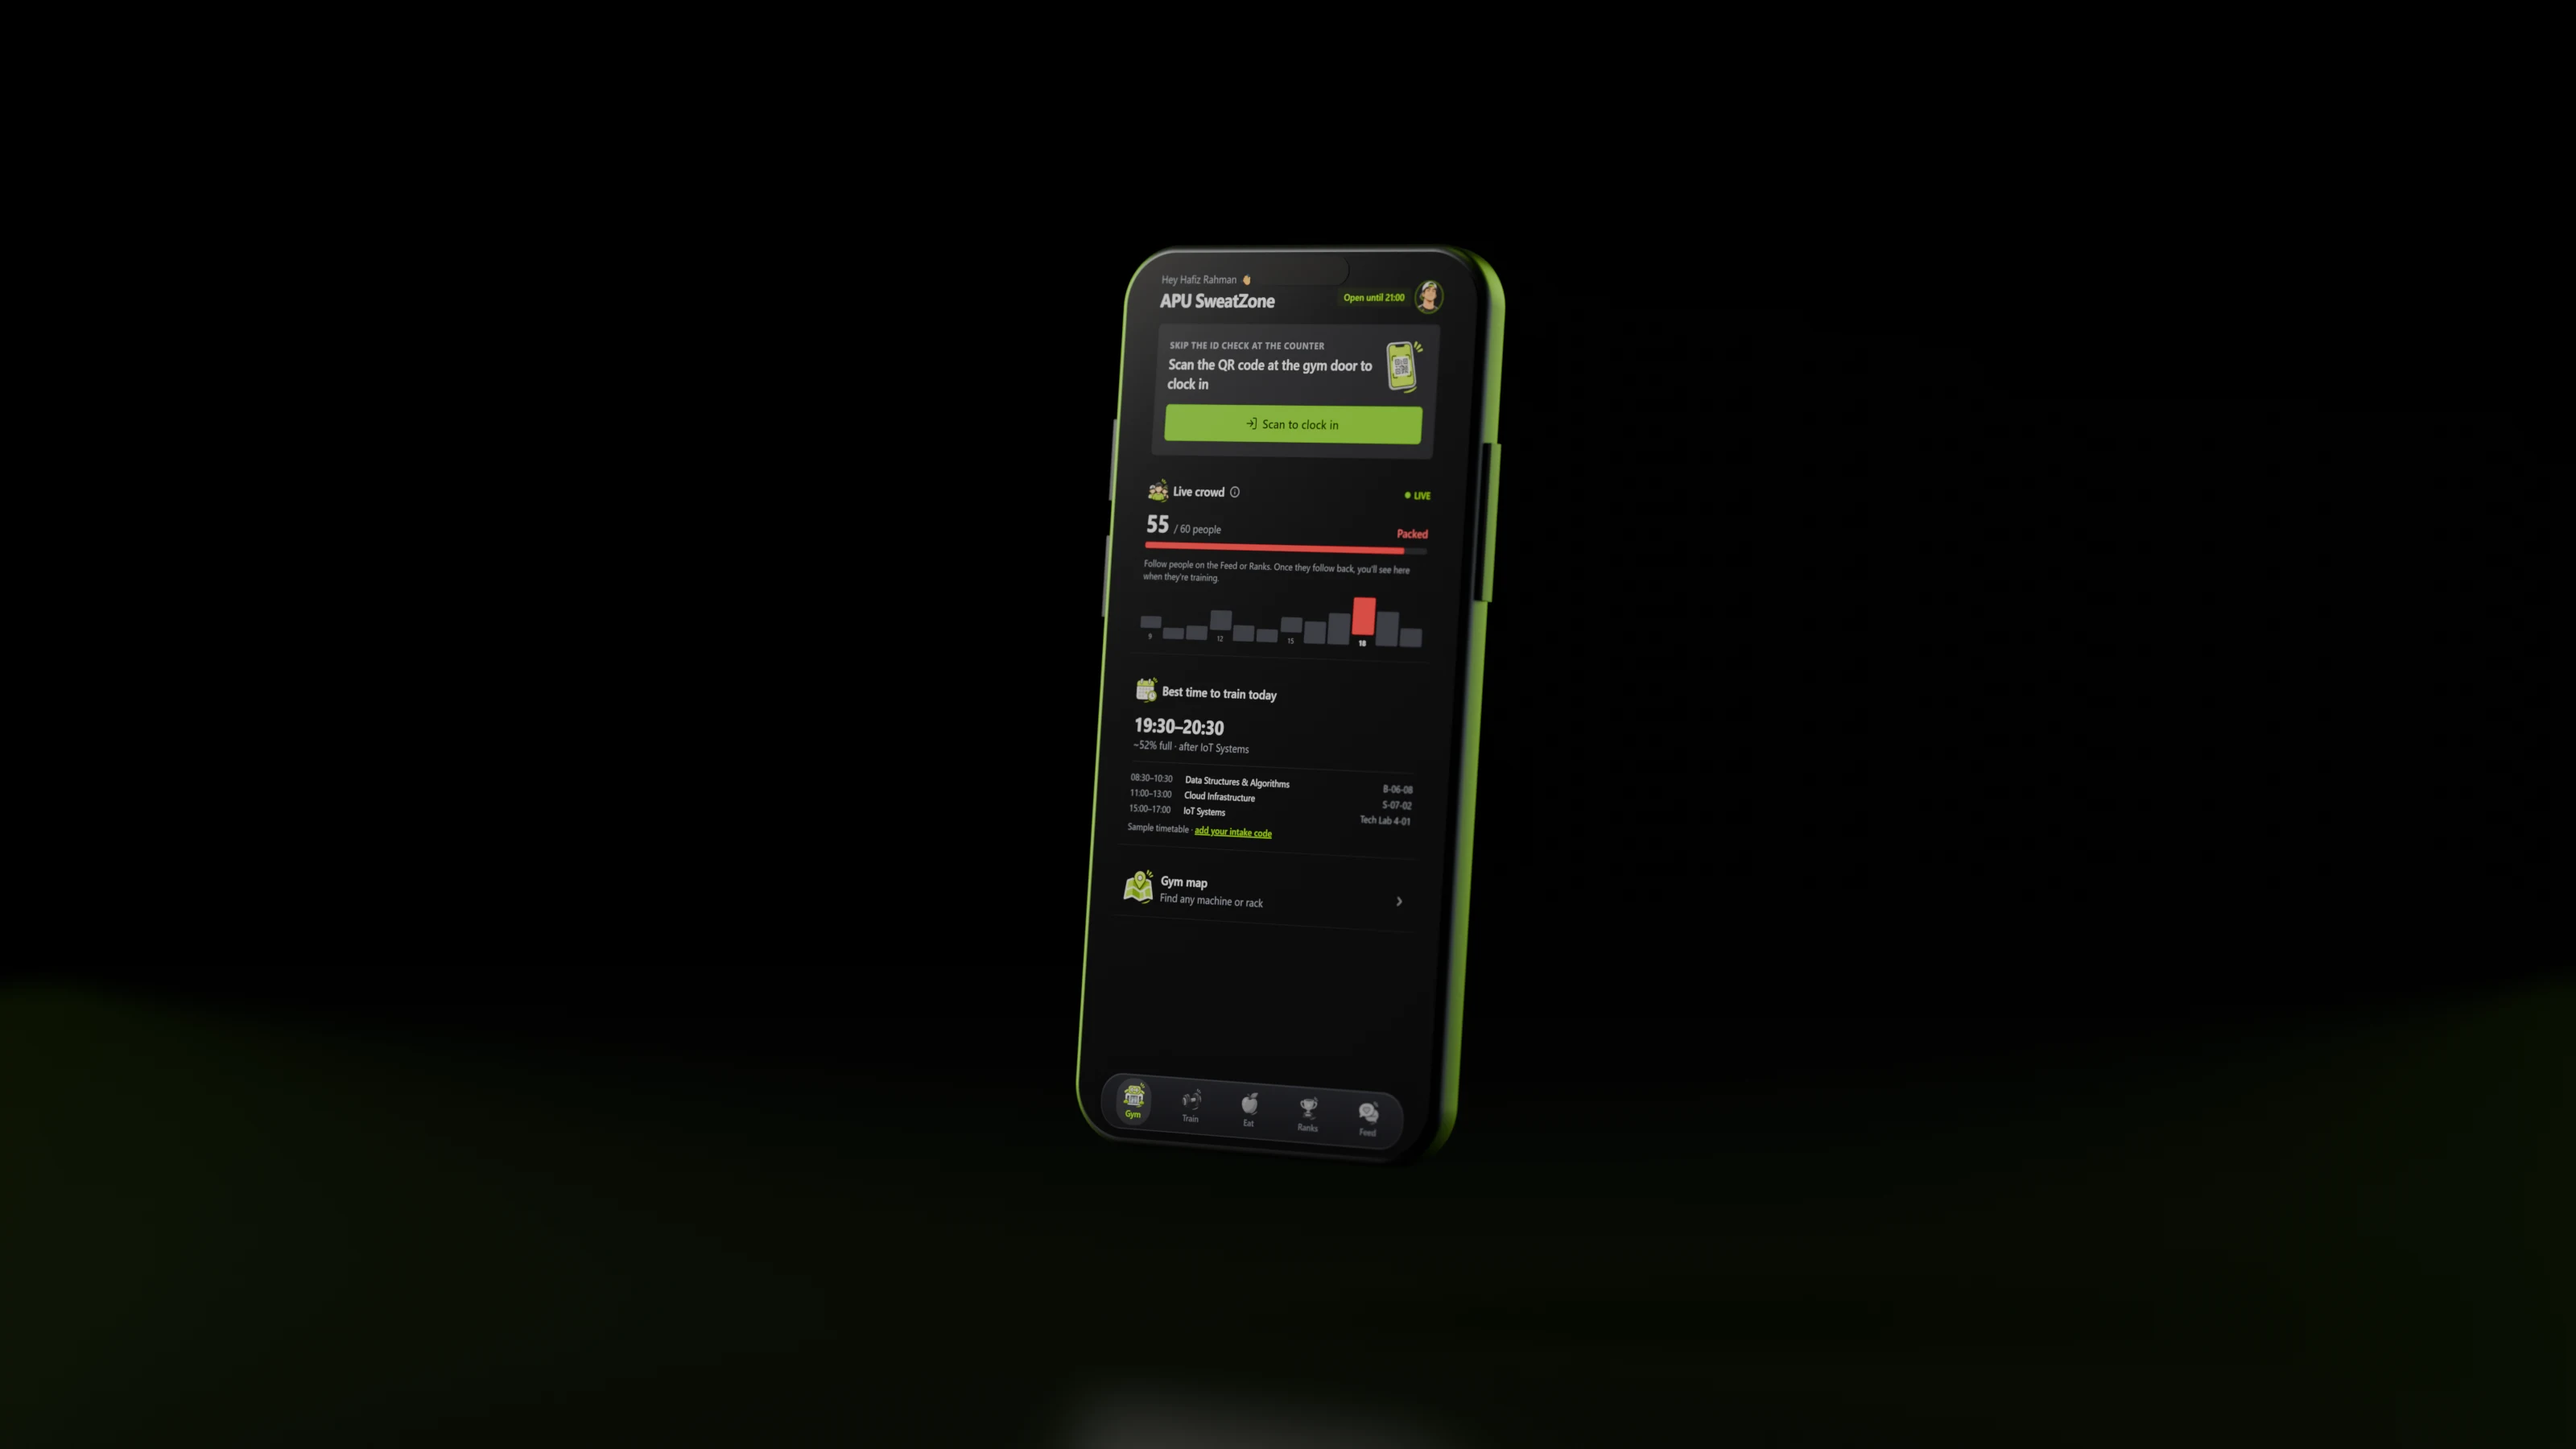
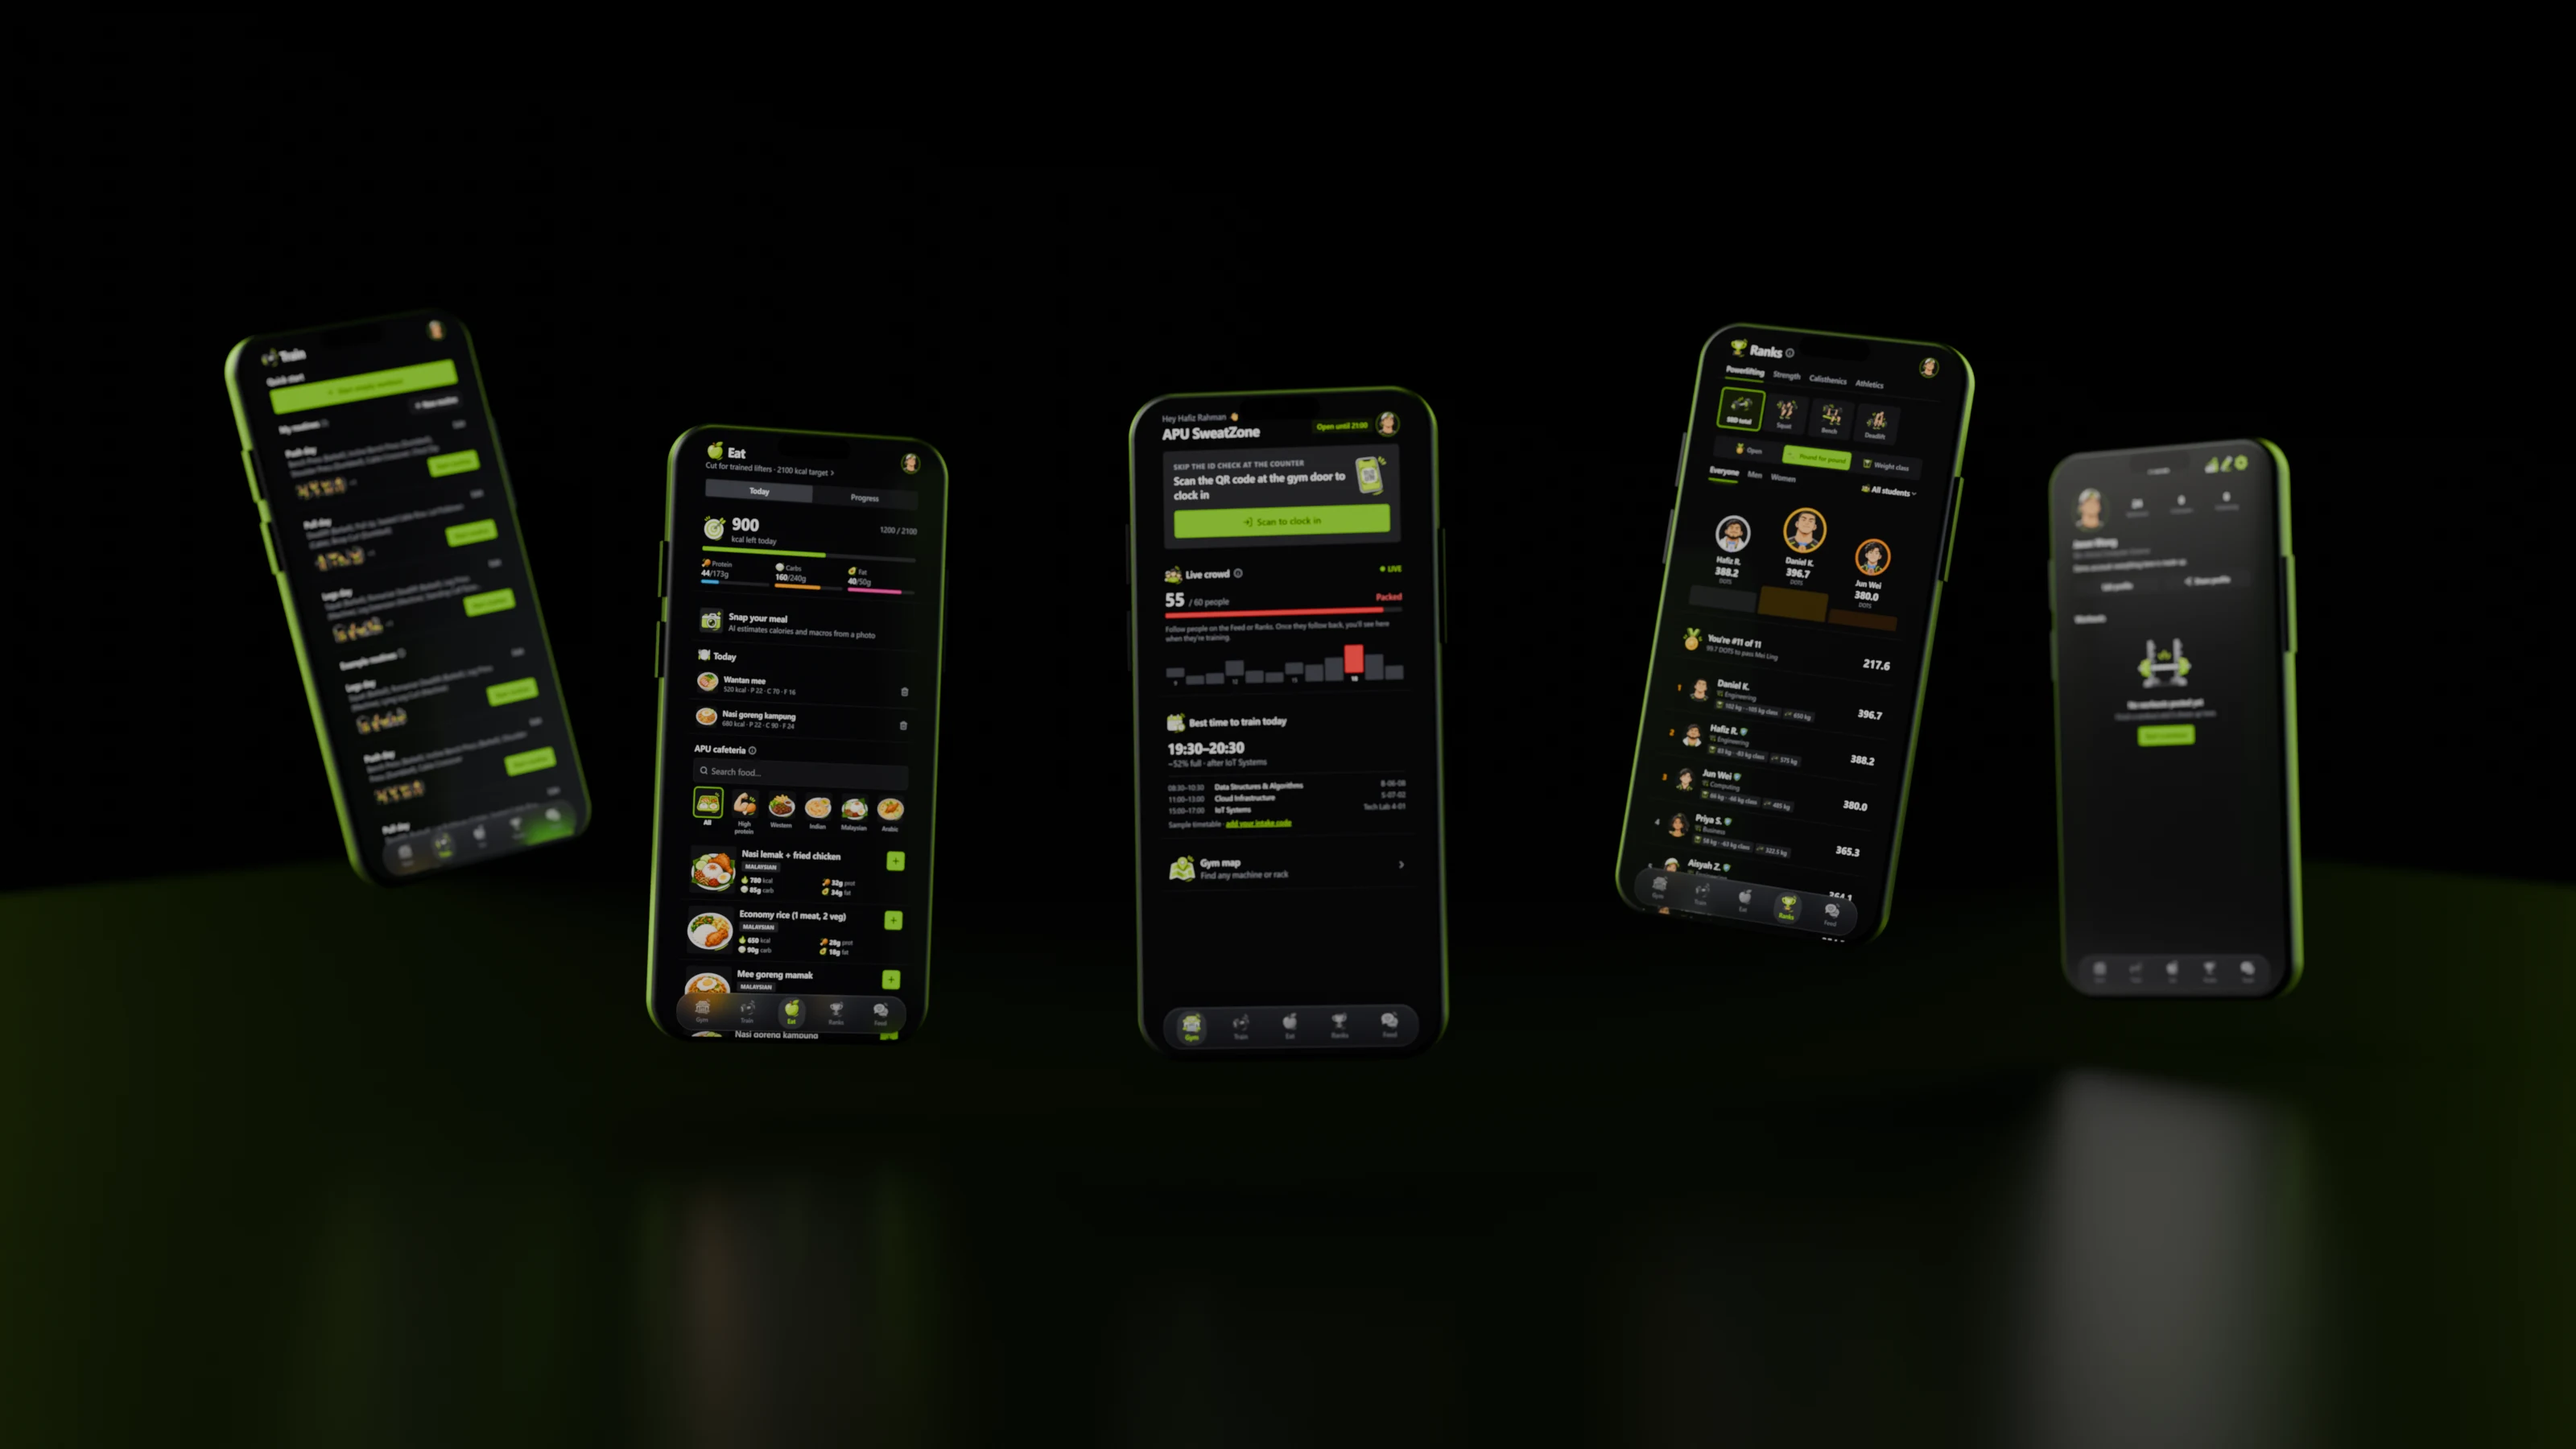
Landing hero: five phones fanned across the width at different angles (Train, Eat, Gym, Ranks, Profile), rendered in Cycles

diff --git a/src/components/HeroScroll.tsx b/src/components/HeroScroll.tsx
@@ -936,11 +936,11 @@ export default function HeroScroll({ apk, progress, video = false, beat = 0, bac
           );
         })()}
 
-        {/* intro product shot: a Cycles render of the phone (tools/hero_shot.py), big and behind the headline, fading back as the live
+        {/* intro product shot: a Cycles render of five phones fanned across the width (tools/hero_shot.py), behind the headline, fading back as the live
             phone rises through it. lighten blend: its black studio drops out; the mask sinks its top into the dark under the copy */}
         {!video && (
-          <img src="/hero/phone-shot.webp" alt="" width={2400} height={1350} aria-hidden
-            className="pointer-events-none absolute left-1/2 top-[22dvh] z-10 h-[95dvh] w-auto max-w-none mix-blend-lighten [mask-image:linear-gradient(to_bottom,transparent_14%,rgba(0,0,0,.3)_30%,#000_52%)] md:top-[2dvh] md:h-[128dvh]"
+          <img src="/hero/phone-shot.webp" alt="" width={3200} height={1800} aria-hidden
+            className="pointer-events-none absolute left-1/2 top-[34dvh] z-10 h-[72dvh] w-auto max-w-none mix-blend-lighten [mask-image:linear-gradient(to_bottom,transparent_10%,rgba(0,0,0,.22)_34%,#000_58%)] md:top-[6dvh] md:h-auto md:w-[max(104vw,150dvh)]"
             style={{ opacity: 1 - smooth(0, 0.25, p), transform: `translateX(-50%) translateY(${p * 12}dvh) scale(${1 - p * 0.15})` }} />
         )}
 

diff --git a/tools/hero_shot.py b/tools/hero_shot.py
@@ -1,11 +1,12 @@
-# The landing page's product shot: a phone floating over a dark glossy floor, showing the real app (a screenshot of the
-# demo's Gym tab), lit like a hardware launch: a soft white key for the glass, lime rims on its edges, a lime pool beneath.
-# blender -b -P tools/hero_shot.py -- <screen.png> <out.png> [width] [samples]
+# The landing page's product shot: five phones fanned across a dark studio floor, each showing a real page of the app
+# (screenshots of the demo: Train, Eat, Gym, Ranks, Profile), lit like a product photo: one big soft key, a dim fill,
+# soft lime kickers behind, a faint lime pool on the floor.
+# blender -b -P tools/hero_shot.py -- <dir with train/eat/home/board/me .png> <out.png> [width] [samples]
 import bpy, math, sys
 from mathutils import Vector
 
 args = sys.argv[sys.argv.index("--") + 1:]
-screen_png, out = args[0], args[1]
+shots, out = args[0], args[1]
 W = int(args[2]) if len(args) > 2 else 2400
 SAMPLES = int(args[3]) if len(args) > 3 else 384
 
@@ -35,39 +36,50 @@ def slab(name, w, h, r, thick, z, m, edge=0.0, segs=24):
     bpy.ops.object.shade_smooth()
     return o
 
-# --- the phone, built lying flat (screen up), then stood up as one group ------------------------------------------
+# --- a phone, built lying flat (screen up), then stood up as one group ----------------------------------------------
 PH = 0.1505; PW = PH * 390 / 844; PT = 0.0082; BEZEL = 0.022 * PW
 frame = mat("frame", (0.05, 0.052, 0.055), rough=0.38, metal=1.0)  # satin graphite titanium
-parts = [slab("phone", PW, PH, 0.15 * PW, PT, 0, frame, edge=0.0022)]
-
-g = bpy.data.materials.new("screen"); g.use_nodes = True
-nt = g.node_tree; b = nt.nodes["Principled BSDF"]
-b.inputs["Base Color"].default_value = (0.002, 0.002, 0.002, 1)
-b.inputs["Roughness"].default_value = 0.12
-b.inputs["Coat Weight"].default_value = 1.0; b.inputs["Coat Roughness"].default_value = 0.04; b.inputs["Coat Weight"].default_value = 0.2
-tc = nt.nodes.new("ShaderNodeTexCoord"); tex = nt.nodes.new("ShaderNodeTexImage"); tex.image = bpy.data.images.load(screen_png)
-tex.interpolation = "Cubic"
-nt.links.new(tc.outputs["Generated"], tex.inputs["Vector"])  # the screen's bounding box -> the whole screenshot
-nt.links.new(tex.outputs["Color"], b.inputs["Emission Color"])
-b.inputs["Emission Strength"].default_value = 1.0
-parts.append(slab("screen", PW - 2 * BEZEL, PH - 2 * BEZEL, 0.135 * (PW - 2 * BEZEL), 0, PT + 0.00015, g))
-
 ink = mat("ink", (0.0, 0.0, 0.0), rough=0.15)
-island = slab("island", 0.26 * PW, 0.032 * PW * 2.2, 0.035 * PW, 0, PT + 0.0003, ink)
-island.location.y = PH / 2 - BEZEL - 0.045 * PW; parts.append(island)
 
-for name, y, ln, side in [("power", 0.2, 0.17, 1), ("vol+", 0.26, 0.09, -1), ("vol-", 0.13, 0.09, -1)]:  # side buttons
-    bpy.ops.mesh.primitive_cube_add(size=1, location=(side * (PW / 2 + 0.0004), y * PH, PT / 2))
-    o = bpy.context.object; o.name = name; o.scale = (0.0016, ln * PH, PT * 0.38)
-    bv = o.modifiers.new("b", "BEVEL"); bv.width = 0.0006; bv.segments = 4
-    o.data.materials.append(frame); bpy.ops.object.shade_smooth(); parts.append(o)
+def screen_mat(png):
+    g = bpy.data.materials.new("screen"); g.use_nodes = True
+    nt = g.node_tree; b = nt.nodes["Principled BSDF"]
+    b.inputs["Base Color"].default_value = (0.002, 0.002, 0.002, 1)
+    b.inputs["Roughness"].default_value = 0.12
+    b.inputs["Coat Weight"].default_value = 0.2; b.inputs["Coat Roughness"].default_value = 0.04
+    tc = nt.nodes.new("ShaderNodeTexCoord"); tex = nt.nodes.new("ShaderNodeTexImage"); tex.image = bpy.data.images.load(png)
+    tex.interpolation = "Cubic"
+    nt.links.new(tc.outputs["Generated"], tex.inputs["Vector"])  # the screen's bounding box -> the whole screenshot
+    nt.links.new(tex.outputs["Color"], b.inputs["Emission Color"])
+    b.inputs["Emission Strength"].default_value = 1.0
+    return g
 
-bpy.ops.object.empty_add(location=(0, 0, 0)); rig = bpy.context.object
-for o in parts: o.parent = rig
-LIFT = 0.028
-rig.location = (0, 0.0, LIFT + PH / 2)
-rig.rotation_euler = (math.radians(90 - 7), 0, math.radians(-30))  # stood up, leaning back a touch, turned to show its edge
-for o in parts: o.location.z -= PT / 2  # so the group turns about the middle of the phone's thickness
+def phone(png, x, y, lift, turn, lean, roll):
+    """a phone at (x, y), floating `lift` off the floor, turned `turn` deg about its height, leaning back `lean`, rolled `roll`"""
+    parts = [slab("phone", PW, PH, 0.15 * PW, PT, 0, frame, edge=0.0022),
+             slab("screen", PW - 2 * BEZEL, PH - 2 * BEZEL, 0.135 * (PW - 2 * BEZEL), 0, PT + 0.00015, screen_mat(png))]
+    island = slab("island", 0.26 * PW, 0.032 * PW * 2.2, 0.035 * PW, 0, PT + 0.0003, ink)
+    island.location.y = PH / 2 - BEZEL - 0.045 * PW; parts.append(island)
+    for name, yy, ln, side in [("power", 0.2, 0.17, 1), ("vol+", 0.26, 0.09, -1), ("vol-", 0.13, 0.09, -1)]:  # side buttons
+        bpy.ops.mesh.primitive_cube_add(size=1, location=(side * (PW / 2 + 0.0004), yy * PH, PT / 2))
+        o = bpy.context.object; o.name = name; o.scale = (0.0016, ln * PH, PT * 0.38)
+        bv = o.modifiers.new("b", "BEVEL"); bv.width = 0.0006; bv.segments = 4
+        o.data.materials.append(frame); bpy.ops.object.shade_smooth(); parts.append(o)
+    bpy.ops.object.empty_add(location=(0, 0, 0)); rig = bpy.context.object
+    for o in parts: o.parent = rig; o.location.z -= PT / 2  # turn about the middle of the phone's thickness
+    rig.location = (x, y, lift + PH / 2)
+    rig.rotation_euler = (math.radians(90 - lean), math.radians(roll), math.radians(turn))
+
+# left to right: further back and turned in at the ends, the Gym tab out front; every one at its own angle
+LIFT = 0.03
+for png, x, y, lift, turn, lean, roll in [
+    ("train", -0.235, 0.17, 0.05, 38, 12, -9),
+    ("eat",   -0.12,  0.07, 0.02, 20, 5, 4),
+    ("home",   0.0,  -0.02, LIFT, -8, 7, -2),
+    ("board",  0.125, 0.08, 0.045, -24, 10, 6),
+    ("me",     0.24,  0.18, 0.015, -40, 4, -5),
+]:
+    phone(f"{shots}/{png}.png", x, y, lift, turn, lean, roll)
 
 # --- floor: near-black and glossy enough to hold a soft reflection --------------------------------------------------
 fl = mat("floor", (0.002, 0.002, 0.0025), rough=0.3)
@@ -75,7 +87,7 @@ fl.node_tree.nodes["Principled BSDF"].inputs["Specular IOR Level"].default_value
 bpy.ops.mesh.primitive_plane_add(size=20); bpy.context.object.data.materials.append(fl)
 
 # --- light -------------------------------------------------------------------------------------------------------
-centre = Vector((0, 0, LIFT + PH / 2))
+centre = Vector((0, 0.03, LIFT + PH / 2))
 def area(name, loc, power, size, color=(1, 1, 1), aim=centre, spread=180, sy=None):
     bpy.ops.object.light_add(type="AREA", location=loc)
     l = bpy.context.object; l.name = name; l.data.energy = power; l.data.color = color
@@ -86,23 +98,23 @@ def area(name, loc, power, size, color=(1, 1, 1), aim=centre, spread=180, sy=Non
     return l
 LIME = (0.45, 1.0, 0.08)
 # a studio set-up, not neon: one big soft key, a dim fill, broad soft lime kickers behind (gradients on the frame, not lines)
-area("key", (-0.75, -0.05, 0.55), 3.5, 0.8, (1, 0.97, 0.93), spread=60)             # big softbox high left: lights the frame, stays off the glass
-area("fill", (0.8, 0.05, 0.12), 0.5, 0.8, (0.85, 0.9, 1.0), spread=60)             # dim cool fill front-right
-area("rimL", (-0.4, 0.35, 0.18), 0.9, 0.35, LIME, sy=0.5, spread=60)                # soft lime kickers behind both edges
-area("rimR", (0.4, 0.35, 0.22), 0.5, 0.35, LIME, sy=0.5, spread=60)
+area("key", (-0.8, -0.1, 0.6), 4.5, 1.2, (1, 0.97, 0.93), spread=60)             # big softbox high left: lights the frame, stays off the glass
+area("fill", (0.85, 0.0, 0.15), 0.7, 1.0, (0.85, 0.9, 1.0), spread=60)             # dim cool fill front-right
+area("rimL", (-0.5, 0.45, 0.2), 1.4, 0.5, LIME, sy=0.6, spread=60)                # soft lime kickers behind both edges
+area("rimR", (0.5, 0.45, 0.24), 0.9, 0.5, LIME, sy=0.6, spread=60)
 bpy.ops.object.light_add(type="SPOT", location=(0, 0.05, 0.7))                   # the lime pool on the floor beneath
-pool = bpy.context.object; pool.data.energy = 4; pool.data.color = LIME; pool.data.spot_size = math.radians(30)
+pool = bpy.context.object; pool.data.energy = 6; pool.data.color = LIME; pool.data.spot_size = math.radians(55)
 pool.data.spot_blend = 1.0; pool.data.shadow_soft_size = 0.15
 pool.rotation_euler = (Vector((0, 0.02, 0)) - pool.location).to_track_quat("-Z", "Y").to_euler()
 
 w = bpy.data.worlds.new("w"); sc.world = w; w.use_nodes = True
 w.node_tree.nodes["Background"].inputs[0].default_value = (0, 0, 0, 1)
 
-# --- camera: a long lens, a little above, the phone centred with room round it -------------------------------------
-bpy.ops.object.camera_add(location=(0, -1.0, 0.17)); cam = bpy.context.object; sc.camera = cam
-cam.data.lens = 85
+# --- camera: a longish lens, a little above, the fan filling the width, focused on the middle phone -------------------------------------
+bpy.ops.object.camera_add(location=(0, -0.98, 0.18)); cam = bpy.context.object; sc.camera = cam
+cam.data.lens = 60
 cam.rotation_euler = (centre + Vector((0, 0, -0.004)) - cam.location).to_track_quat("-Z", "Y").to_euler()
-cam.data.dof.use_dof = True; cam.data.dof.focus_distance = (centre - cam.location).length; cam.data.dof.aperture_fstop = 4
+cam.data.dof.use_dof = True; cam.data.dof.focus_distance = (centre - cam.location).length; cam.data.dof.aperture_fstop = 5.6
 
 # --- render ------------------------------------------------------------------------------------------------------
 sc.render.engine = "CYCLES"
